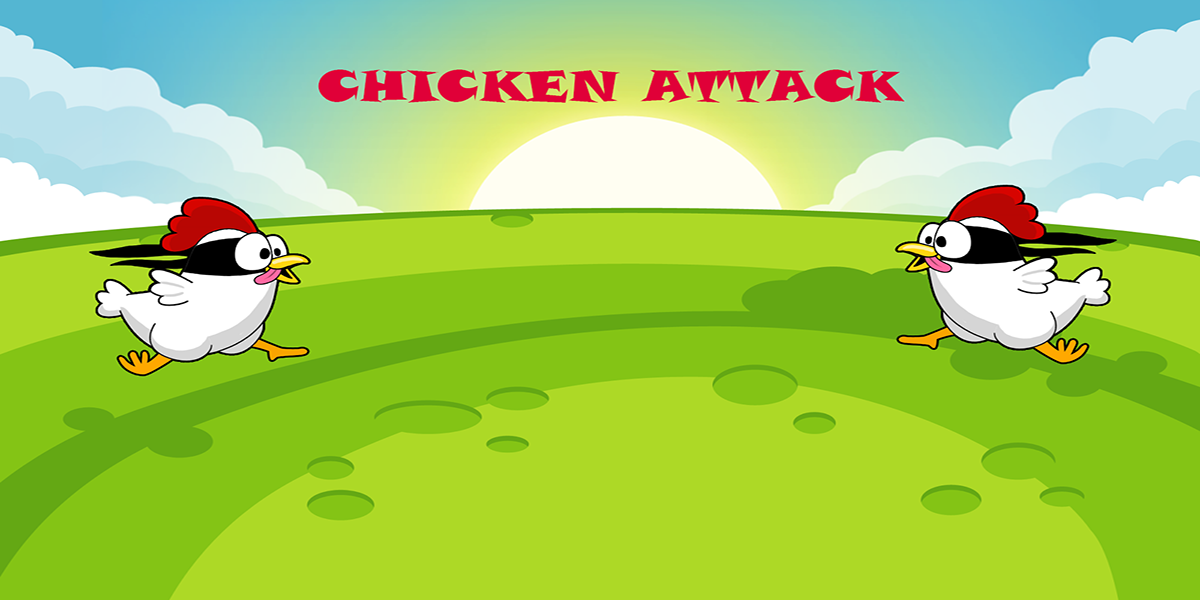
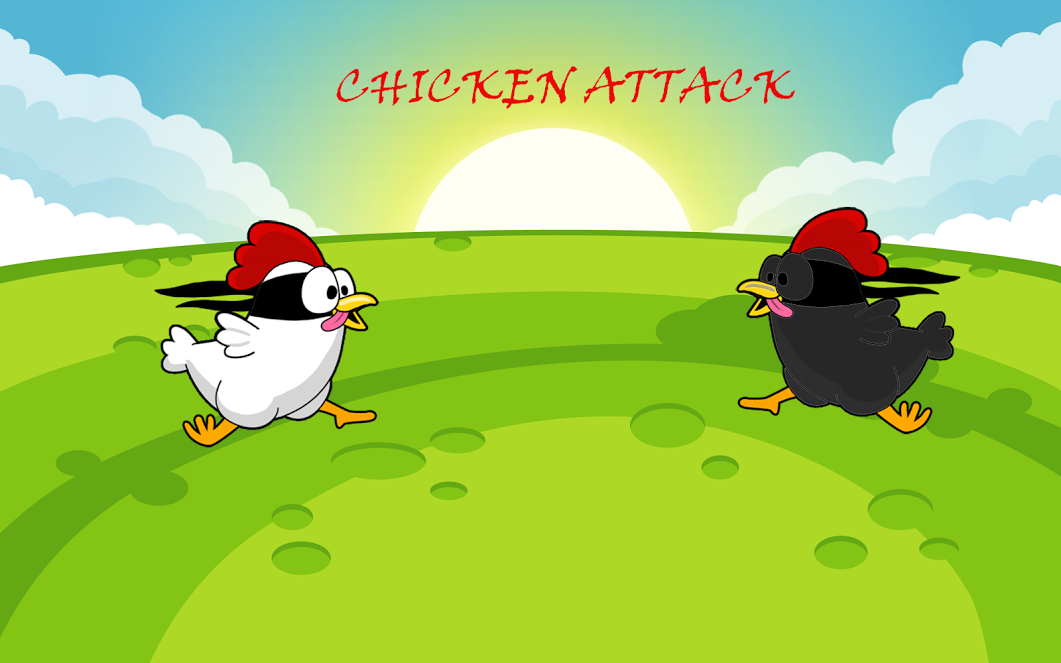
Update Guide Scene

Changed region(s): [[0.0622, 0.33, 0.3732, 0.69], [0.6843, 0.3, 0.9331, 0.66], [0.2488, 0.09, 0.7465, 0.18]]

diff --git a/src/gamemain/gamescene/GuideScene.java b/src/gamemain/gamescene/GuideScene.java
@@ -1,15 +1,30 @@
 package gamemain.gamescene;
 
 import gamemain.NotificationCenter;
+import utils.Utils;
 
 import java.awt.*;
 import java.awt.event.KeyEvent;
 import java.awt.event.MouseEvent;
 
+import static gamemain.Game.FRAME_HEIGHT;
+import static gamemain.Game.FRAME_WIDTH;
+
 /**
  * Created by EDGY on 3/25/2017.
  */
 public class GuideScene implements GameScene {
+
+    private static final int WIDTH = 250;
+    private static final int HEIGHT = 100;
+    private static final int x = 408;
+    private static final int y = 496;
+    private Rectangle start;
+
+    public GuideScene() {
+        start = new Rectangle(x,y,WIDTH,HEIGHT);
+    }
+
     @Override
     public void run() {
 
@@ -17,7 +32,8 @@ public class GuideScene implements GameScene {
 
     @Override
     public void update(Graphics graphics) {
-
+        graphics.drawImage(Utils.loadImageFromres("GuideBG.png"), 0, 0, FRAME_WIDTH, FRAME_HEIGHT, null);
+        graphics.drawImage(Utils.loadImageFromres("Go.png"),x,y,WIDTH,HEIGHT,null);
     }
 
     @Override
@@ -39,7 +55,10 @@ public class GuideScene implements GameScene {
 
     @Override
     public void mouseClicked(MouseEvent e) {
-
+        Point p = e.getPoint();
+        if(start.contains(p)){
+            NotificationCenter.getInstance().onChange(SceneType.PLAY_SCENE, true);
+        }
     }
 
     @Override

diff --git a/src/models/PlayerModel.java b/src/models/PlayerModel.java
@@ -15,7 +15,7 @@ public class PlayerModel extends GameModel implements GameModelCanMove {
     // Kích cỡ mặc định của người chơi
     public static final int DEFAULT_WIDTH = 70;
     public static final int DEFAULT_HEGHT = 100;
-    public static final float ANGLE_CHANGE = 1f;
+    public static final float ANGLE_CHANGE = 1.4f;
     public static int NUM_BULLET_MAX = 10;
     protected  int TIME_ENCREASE_BULLET_MAX = 3000;
     // Speed mặc địch
